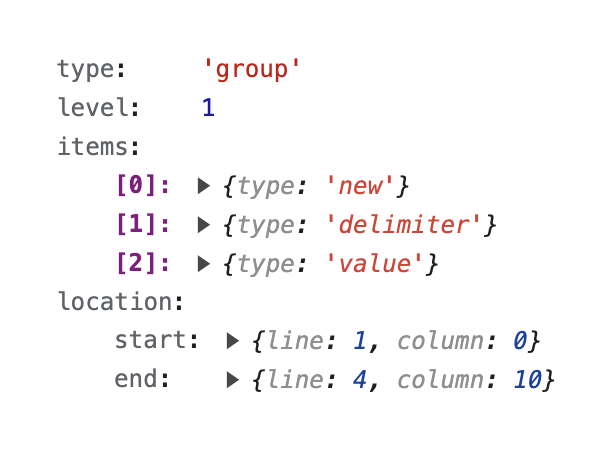
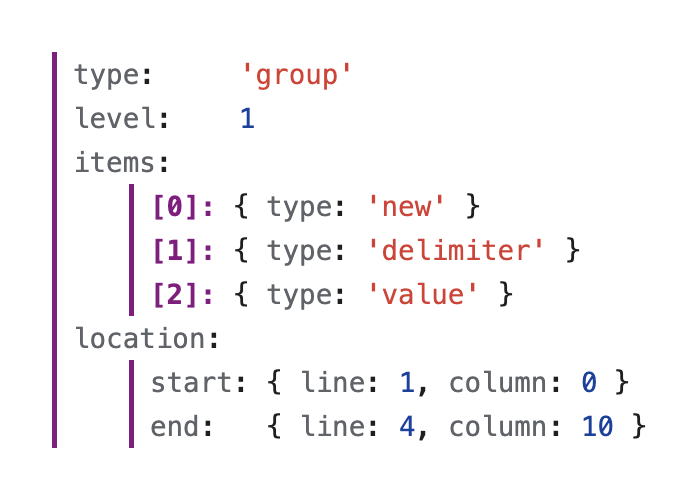
✏ update consoleInspect() image

diff --git a/README.md b/README.md
@@ -70,7 +70,7 @@ consoleInspect({
             column: 10,
         },
     },
-})
+}, { line: true })
 ```
 
 ### `consolePrint()`
